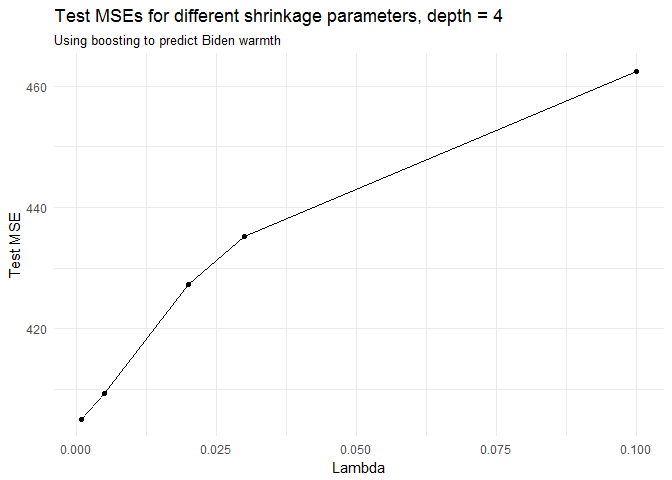
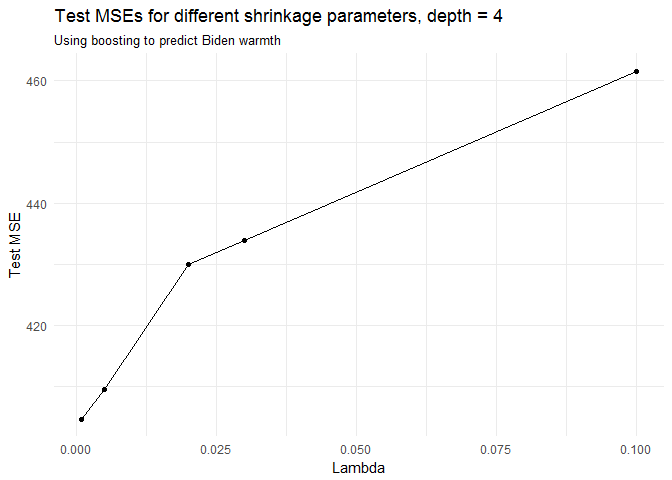
edit code

diff --git a/students/kim_soowan/ps8/ps8.md b/students/kim_soowan/ps8/ps8.md
@@ -241,10 +241,14 @@ First, we calculate the optimal number of iterations when depth = 4:
 biden_boost <- gbm(biden ~ ., data = biden_train, 
                    distribution = "gaussian", n.trees = 5000, interaction.depth = 4)
 
-gbm.perf(biden_boost, plot.it=FALSE)
+opt_iter <- gbm.perf(biden_boost, plot.it=FALSE)
 ```
 
     ## Using OOB method...
+
+``` r
+opt_iter
+```
 
     ## [1] 2097
 
@@ -252,7 +256,7 @@ Then we fit the boosting model with the optimal number of trees.
 
 ``` r
 biden_boost_opt <- gbm(biden ~ ., data = biden_train, 
-                   distribution = "gaussian", n.trees = 2051, interaction.depth = 4)
+                   distribution = "gaussian", n.trees = opt_iter[[1]], interaction.depth = 4)
 
 summary(biden_boost_opt)
 ```
@@ -260,14 +264,14 @@ summary(biden_boost_opt)
 ![](ps8_files/figure-markdown_github/biden_boost_opt_mod-1.png)
 
     ##           var   rel.inf
-    ## dem       dem 61.014515
-    ## rep       rep 18.907948
-    ## age       age 11.970245
-    ## educ     educ  4.757345
-    ## female female  3.349946
+    ## dem       dem 60.762848
+    ## rep       rep 18.851629
+    ## age       age 12.209014
+    ## educ     educ  4.806662
+    ## female female  3.369847
 
 ``` r
-yhat_boost <- predict(biden_boost_opt, newdata = biden_test, n.trees = 2051)
+yhat_boost <- predict(biden_boost_opt, newdata = biden_test, n.trees = opt_iter[[1]])
 mse_boost <- mean((yhat_boost - biden_test$biden)^2)
 ```
 
@@ -287,37 +291,37 @@ plot(biden_boost,i="educ")
 
 Expected Biden warmth increases with Democratic party identification and decreases with Republican party identification. There is an overall upward trend as age increases, and an overall downward trend as education increases.
 
-The test MSE is 404.9256424.
+The test MSE is 404.6510492.
 
 Increasing the shrinkage parameter lambda increases the MSE, as shown below:
 
 ``` r
 #fit different models with varying lambda values
 biden_boost1 <- gbm(biden ~ ., data = biden_train, 
-                   distribution = "gaussian", n.trees = 2051, interaction.depth = 4,
+                   distribution = "gaussian", n.trees = opt_iter[[1]], interaction.depth = 4,
                    shrinkage = 0.001, verbose = F)
 
 biden_boost2 <- gbm(biden ~ ., data = biden_train, 
-                   distribution = "gaussian", n.trees = 2051, interaction.depth = 4,
+                   distribution = "gaussian", n.trees = opt_iter[[1]], interaction.depth = 4,
                    shrinkage = 0.005, verbose = F)
                    
 biden_boost3 <- gbm(biden ~ ., data = biden_train, 
-                   distribution = "gaussian", n.trees = 2051, interaction.depth = 4,
+                   distribution = "gaussian", n.trees = opt_iter[[1]], interaction.depth = 4,
                    shrinkage = 0.02, verbose = F)
 
 biden_boost4 <- gbm(biden ~ ., data = biden_train, 
-                   distribution = "gaussian", n.trees = 2051, interaction.depth = 4,
+                   distribution = "gaussian", n.trees = opt_iter[[1]], interaction.depth = 4,
                    shrinkage = 0.03, verbose = F)
 
 biden_boost5 <- gbm(biden ~ ., data = biden_train, 
-                   distribution = "gaussian", n.trees = 2051, interaction.depth = 4,
+                   distribution = "gaussian", n.trees = opt_iter[[1]], interaction.depth = 4,
                    shrinkage = 0.1, verbose = F)
 
 boost_models <- c(biden_boost1, biden_boost2, biden_boost3, biden_boost4, biden_boost5)
 
 #calculate MSEs for each
 mse_booster <- function(model) {
-  yhat_boost <- predict(model, newdata = biden_test, n.trees = 2051)
+  yhat_boost <- predict(model, newdata = biden_test, n.trees = opt_iter[[1]])
   mse <- mean((yhat_boost - biden_test$biden)^2)
 }
 
@@ -345,8 +349,12 @@ ggplot(data = boost_df, mapping = aes(x = Lambda, y = MSE)) +
 ``` r
 #make chart of mse values by method 
 subpart_list <- as.data.frame(c(2, 3, 3, 4, 5, 6))
-desc_list <- as.data.frame(c("Single tree, default control options", "Single tree, not pruned", "Single tree, pruned (3 leaves)", "Bagging", "Random forest", "Boosting"))
-mse_list <- as.data.frame(c(mse_default, mse_whole, mse_pruned, mse_bagged, mse_rf, mse_boost))
+desc_list <- as.data.frame(c("Single tree, default control options", 
+                             "Single tree, not pruned", 
+                             "Single tree, pruned (3 leaves)", 
+                             "Bagging", "Random forest", "Boosting"))
+mse_list <- as.data.frame(c(mse_default, mse_whole, 
+                            mse_pruned, mse_bagged, mse_rf, mse_boost))
 
 mse_df <- cbind(subpart_list, desc_list)
 mse_df <- cbind(mse_df, mse_list)
@@ -433,7 +441,7 @@ Random forest
 Boosting
 </td>
 <td style="text-align:right;">
-404.9256
+404.6510
 </td>
 </tr>
 </tbody>
